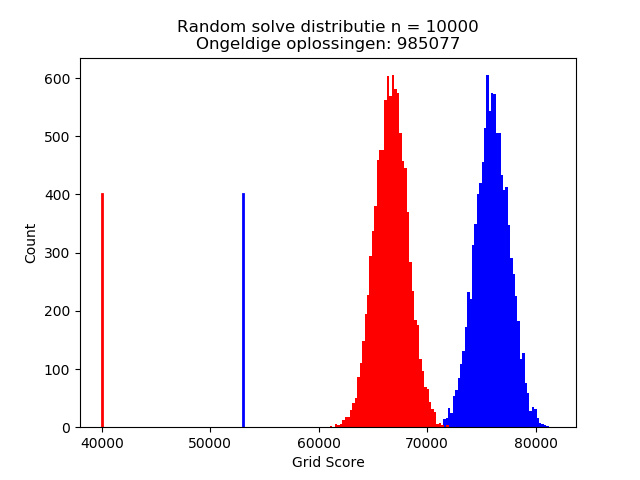
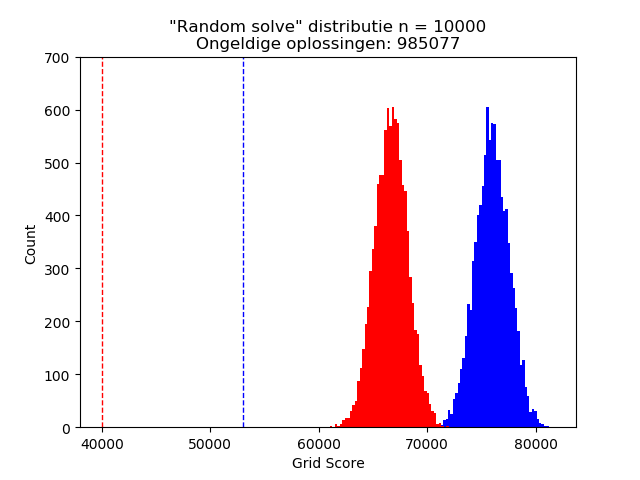
Results ReadMe progress

diff --git a/Code/Helper_Functions/make_plot.py b/Code/Helper_Functions/make_plot.py
@@ -22,9 +22,9 @@ with open('../../Results/random_solutions.csv', 'r') as csvfile:
 title_string = '"Random solve" distributie n = 10000' + '\n' + 'Ongeldige oplossingen: 985077'
 # title_string = 'Vergelijking resultaten'
 plt.hist(first_distr, 50, facecolor='blue')
-# plt.hist(second_distr, 50, facecolor='red')
+plt.hist(second_distr, 50, facecolor='red')
 plt.plot([53000, 53000], [0, 750], 'b--', lw=1)
-# plt.plot([40000, 40000], [0, 750], 'r-', lw=1)
+plt.plot([40000, 40000], [0, 750], 'r--', lw=1)
 # plt.plot([64492, 64492], [0, 400], 'k:', lw=2)
 # plt.plot([41596, 41596], [0, 400], 'k-.', lw=2)
 # plt.plot([41371, 41371], [0, 400], 'r:', lw=1)
@@ -32,6 +32,6 @@ plt.plot([53000, 53000], [0, 750], 'b--', lw=1)
 plt.xlabel('Grid Score')
 plt.ylabel('Count')
 plt.title(title_string)
-plt.xlim(xmin = 50000)
+plt.xlim(xmin = 38000)
 plt.ylim(ymax = 700)
 plt.show()

diff --git a/Results/README.md b/Results/README.md
@@ -3,3 +3,27 @@
 ## Bounds en dichtheid oplossingen
 
 ![alt text](Figures/distribution_normal.png)
+
+In bovenstaand figuur is de scoredistributie van willekeurige, geldige oplossingen
+getoond voor wijk 1 met de initiële plaatsing van de batterijen. Verder geeft
+stippellijn de lower bound aan. Deze is berekend door alle Manhattan-afstanden
+van de huizen tot hun dichtstbijzijnde batterij bij elkaar op te tellen.
+
+## Batterijen verplaatsen
+
+![alt text](Figures/reposition_hillclimber.png)
+
+Bovenstaand figuur toont de posities van de huizen en batterijen in wijk 1 (bovenste
+rij figuren). Van de output van de huizen en de capaciteit van de batterijen is
+met behulp van gaussische verdelingen (standaarddeviatie = 10) een heat map gemaakt
+(middelste rij figuren). Dit geeft een goede indicatie van waar de batterijen beter
+geplaatst kunnen worden. Als de output van de huizen en de capaciteit over elkaar
+heen legt (onderste rij figuren) wil je dat map zo wit mogelijk is (d.w.z. output
+en capaciteit in balans). Na hill climben op deze heat map score komt er een betere
+positionering van de batterijen uit...
+
+![alt text](Figures/distribution_replace.png)
+
+In bovenstaand figuur is te zien hoe de scoredistributie van de willekeurige
+oplossingen én lower bound is verschoven. Dit duidt erop dat met deze nieuwe
+positionering van de batterijen lagere kosten gerealiseerd kunnen worden.          
